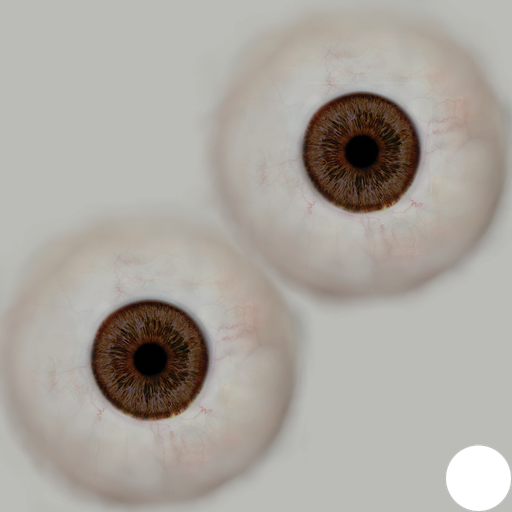
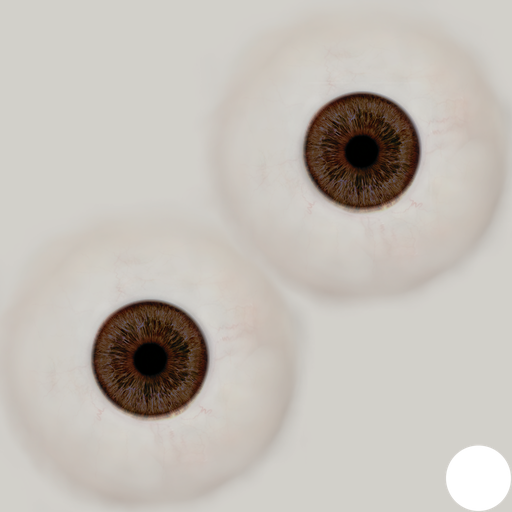
아바타 7차: 옷에 3D 몸 조명(가장자리 어둡게·명암), 허리 그늘은 몸 위에만, 손을 허벅지 옆으로·덜 굽히고 조금 작게, 입 다물기·입술 혈색, 따뜻한 흰자, 옅은 눈썹, 머리카락 윤곽 계단 줄이기, 깨끗한 흰 운동화, 서비스 워커 v43

diff --git a/avatar3d.js b/avatar3d.js
@@ -291,18 +291,27 @@ const Avatar3D = (() => {
       for (let s = 3; s >= 2; s--) rotSeg(`finger1-${s}.${sd}`, curl.thumb[s - 1], bend);
       rotSeg(`finger1-1.${sd}`, curl.thumb[0] * (sd === 'L' ? 1 : -1), () => d);
       rotSeg(`finger1-1.${sd}`, curl.thumbIn * (sd === 'L' ? 1 : -1), () => pn);
+      // 손 크기: 아래팔에 비해 커 보이던 손을 손목 기준으로 조금 줄인다
+      if (curl.scale && curl.scale !== 1) {
+        const W = data.w['hand' + sd];
+        for (let i = 0; i < W.length; i++) {
+          const w = W[i] / 255; if (!w) continue;
+          const f = 1 - (1 - curl.scale) * w;
+          for (let k = 0; k < 3; k++) P[i * 3 + k] = wr[k] + (P[i * 3 + k] - wr[k]) * f;
+        }
+      }
     }
     return P;
   }
   const FACE = {
-    'lowerlip-vol': -0.7, 'lowerlip-h': -0.3, 'mouth-angle': 0.3, 'mouth-w': -0.1,
+    'lowerlip-vol': -0.7, 'lowerlip-h': -0.3, 'lowerlip-mid': 0.8, 'upperlip-mid': -0.6, 'mouth-angle': 0.3, 'mouth-w': -0.1,
     'chin-prom': 0.25, 'chin-w': -0.45, 'head-fat': -0.5, 'head-oval': 0,
     'cheek-vol': -0.25, 'cheek-bones': 0, 'nose-w': -0.15, 'nose-point': -0.3, 'nose-flare': -0.3, 'nose-vol': -0.1, 'nose-hump': 0,
     'brow-y': -0.15, 'brow-angle': 0, 'neck-w': 0.3, 'eye-open': 0.15, 'eye-bag': -0.4, 'eye-scale': 0.05,
   };
   const LIGHT = { key: 2.6, fill: 0.3, rim: 2.2, rim2: 1.6, env: 0.35, exposure: 0.84 };
-  const POSE = { arm: 4.5, fore: 1.5, leg: 2.5, twist: -25, head: 0.96, hairThick: 0.8, hair: 'short02', cav: 0.6, browThick: 1.8, hairShells: 3, hairShellGap: 0.16, hairNormal: 0, hairBump: 2.0, pores: 0.35 };
-  const HAND_CURL = { palmSign: -1, seg: [10, 25, 12], more: 2, close: 3, thumb: [0, 10, 10], thumbIn: -60 };
+  const POSE = { arm: 7.5, fore: 0, leg: 2.5, twist: -15, head: 0.96, hairThick: 0.8, hair: 'short02', cav: 0.6, browThick: 1.55, hairShells: 3, hairShellGap: 0.16, hairNormal: 0, hairBump: 2.0, pores: 0.35 };
+  const HAND_CURL = { palmSign: -1, seg: [8, 18, 10], more: 1.5, close: 3, thumb: [0, 8, 8], thumbIn: -55, scale: 0.95 };
 
   // 원래 정점 기준 법선(uv 이음매에서도 끊기지 않게)
   function normals(P) {
@@ -396,7 +405,7 @@ const Avatar3D = (() => {
         for (let i = 0; i < n; i++) {
           const d = (S[i * 3] - P[i * 3]) * N[i * 3] + (S[i * 3 + 1] - P[i * 3 + 1]) * N[i * 3 + 1] + (S[i * 3 + 2] - P[i * 3 + 2]) * N[i * 3 + 2];
           // 큰 굴곡은 얼굴(눈두덩·콧방울·입꼬리)에만 진하게: 몸통에 쓰면 가슴·쇄골에 멍처럼 얼룩진다
-          const wgt = it === 3 ? 0.15 + 0.3 * (hw[i] / 255) : 0.03 + 0.47 * (hw[i] / 255);
+          const wgt = it === 3 ? 0.15 + 0.3 * (hw[i] / 255) : 0.03 + 0.34 * (hw[i] / 255);
           out[i] += Math.max(0, Math.min(1, d / sc)) * wgt;
         }
       }
@@ -597,11 +606,11 @@ const Avatar3D = (() => {
       let mat;
       if (p.kind === 'hair') {
         const ht = hairRGB.map((v, i) => Math.max(0.05, Math.min(2.5, v / Math.max(8, data.hairAvg[p.name][i]))));
-        mat = new THREE.MeshPhysicalMaterial({ map: data.tex[p.tex], ...(p.name === 'short02' && POSE.hairNormal ? { normalMap: data.tex['hair_n.jpg'], normalScale: new THREE.Vector2(POSE.hairNormal, POSE.hairNormal) } : {}), ...(POSE.hairBump ? { bumpMap: strandTex(), bumpScale: POSE.hairBump } : {}), color: new THREE.Color(ht[0], ht[1], ht[2]).convertSRGBToLinear(), roughness: 0.62, specularIntensity: 0.35, sheen: 0.35, sheenRoughness: 0.4, sheenColor: new THREE.Color(0.4, 0.32, 0.26), alphaTest: 0.55, side: THREE.DoubleSide });
+        mat = new THREE.MeshPhysicalMaterial({ map: data.tex[p.tex], ...(p.name === 'short02' && POSE.hairNormal ? { normalMap: data.tex['hair_n.jpg'], normalScale: new THREE.Vector2(POSE.hairNormal, POSE.hairNormal) } : {}), ...(POSE.hairBump ? { bumpMap: strandTex(), bumpScale: POSE.hairBump } : {}), color: new THREE.Color(ht[0], ht[1], ht[2]).convertSRGBToLinear(), roughness: 0.62, specularIntensity: 0.35, sheen: 0.35, sheenRoughness: 0.4, sheenColor: new THREE.Color(0.4, 0.32, 0.26), alphaTest: 0.55, alphaToCoverage: true, side: THREE.DoubleSide });
       } else if (p.kind === 'brow' || p.kind === 'lash') {
-        mat = new THREE.MeshStandardMaterial({ map: data.tex[p.tex], color: p.kind === 'brow' ? new THREE.Color(Math.min(1, hairRGB[0] / 255 * 1.5), Math.min(1, hairRGB[1] / 255 * 1.5), Math.min(1, hairRGB[2] / 255 * 1.5)).convertSRGBToLinear() : new THREE.Color(0.06, 0.05, 0.045), roughness: 0.8, ...(p.kind === 'lash' && POSE.lashOpaque ? { alphaTest: 0.4 } : { transparent: true, opacity: 1, alphaTest: 0.05, depthWrite: false }), side: THREE.DoubleSide });
+        mat = new THREE.MeshStandardMaterial({ map: data.tex[p.tex], color: p.kind === 'brow' ? new THREE.Color(Math.min(1, hairRGB[0] / 255 * 1.5), Math.min(1, hairRGB[1] / 255 * 1.5), Math.min(1, hairRGB[2] / 255 * 1.5)).convertSRGBToLinear() : new THREE.Color(0.06, 0.05, 0.045), roughness: 0.8, ...(p.kind === 'lash' && POSE.lashOpaque ? { alphaTest: 0.4 } : { transparent: true, opacity: p.kind === 'brow' ? 0.78 : 1, alphaTest: 0.05, depthWrite: false }), side: THREE.DoubleSide });
       } else if (p.kind === 'eye') {
-        mat = new THREE.MeshPhysicalMaterial({ map: data.tex[p.tex], roughness: 0.2, clearcoat: 1, clearcoatRoughness: 0.03, envMapIntensity: 3, transparent: true, alphaTest: 0.02 }); // 소프트박스가 눈에 비친 반짝임
+        mat = new THREE.MeshPhysicalMaterial({ map: data.tex[p.tex], roughness: 0.2, clearcoat: 1, clearcoatRoughness: 0.03, envMapIntensity: 1.8, transparent: true, alphaTest: 0.02 }); // 소프트박스가 눈에 비친 반짝임
       } else {
         mat = new THREE.MeshStandardMaterial({ map: data.tex[p.tex], roughness: 0.7 });
       }
@@ -615,7 +624,7 @@ const Avatar3D = (() => {
       if (p.kind !== 'shoes') headParts.push(mesh);
       if (p.kind === 'hair') {
         // 머리카락 끝(반투명한 가닥)은 섞어 그려 앞머리 끝이 톱니처럼 잘리지 않고 가늘게 흩어지게
-        const soft = new THREE.Mesh(g, Object.assign(mat.clone(), { alphaTest: 0.04, transparent: true, depthWrite: false }));
+        const soft = new THREE.Mesh(g, Object.assign(mat.clone(), { alphaTest: 0.04, transparent: true, depthWrite: false, alphaToCoverage: false }));
         soft.userData.kind = 'hair'; soft.renderOrder = 3; soft.receiveShadow = true;
         scene.add(soft); headParts.push(soft);
         // 털 껍질: 머리카락 겉에 가닥 무늬로 듬성듬성 뚫린 얇은 막을 몇 겹 씌워 윤곽이 매끈한 덩어리(헬멧)가 아니라 보송하게
@@ -627,7 +636,7 @@ const Avatar3D = (() => {
             const gk = g.clone(), pk = gk.attributes.position.array;
             for (let i = 0; i < pk.length; i++) pk[i] = pos[i] + nor[i] * off;
             gk.attributes.position.needsUpdate = true;
-            const mk = Object.assign(mat.clone(), { alphaMap: strandTex(), alphaTest: 0.3 + 0.12 * k, transparent: false });
+            const mk = Object.assign(mat.clone(), { alphaMap: strandTex(), alphaTest: 0.3 + 0.12 * k, transparent: false, alphaToCoverage: true });
             mk.color = mat.color.clone().multiplyScalar(1 + 0.08 * k); // 바깥 가닥이 빛을 조금 더 받는다
             const sh = new THREE.Mesh(gk, mk);
             sh.userData.kind = 'hair'; sh.renderOrder = 1; sh.receiveShadow = true;

diff --git a/garment.js b/garment.js
@@ -2085,13 +2085,61 @@
       gg.closePath(); gg.fill();
       gg.restore();
       // 허리 밴드 바로 위 살에 지는 얇은 그늘(밴드가 살을 살짝 누른다)
-      gg.save();
-      gg.globalCompositeOperation = 'destination-over';
-      gg.filter = `blur(${0.7 * s}px)`;
-      gg.strokeStyle = 'rgba(40,25,20,0.22)';
-      gg.lineWidth = 1.4 * s;
-      gg.beginPath(); gg.moveTo(wl.l.x + 1.5 * s, wl.l.y - 0.3 * s); gg.quadraticCurveTo(c.x, c.y - 0.6 * s, wl.r.x - 1.5 * s, wl.r.y - 0.3 * s); gg.stroke();
-      gg.restore();
+      // 그늘은 몸 위에만(배경으로 번진 회색 얼룩이 생기지 않게)
+      const sh = buf('waistShadow', W, H), shg = sh.getContext('2d');
+      shg.setTransform(1, 0, 0, 1, 0, 0); shg.globalCompositeOperation = 'source-over'; shg.clearRect(0, 0, W, H);
+      shg.filter = `blur(${0.7 * s}px)`;
+      shg.strokeStyle = 'rgba(40,25,20,0.22)';
+      shg.lineWidth = 1.4 * s;
+      shg.beginPath(); shg.moveTo(wl.l.x + 1.5 * s, wl.l.y - 0.3 * s); shg.quadraticCurveTo(c.x, c.y - 0.6 * s, wl.r.x - 1.5 * s, wl.r.y - 0.3 * s); shg.stroke();
+      shg.filter = 'none'; shg.globalCompositeOperation = 'destination-in'; shg.drawImage(avatarBody, 0, 0, W, H);
+      shg.globalCompositeOperation = 'source-over';
+      gg.save(); gg.globalCompositeOperation = 'destination-over'; gg.drawImage(sh, 0, 0); gg.restore();
+    }
+  }
+
+  // 아바타 옷 조명: 붙여 넣은 사진처럼 평평하지 않게
+  // 1) 옷 실루엣 가장자리(몸통 옆·소매 바깥·겨드랑이)로 갈수록 어둡게(둥근 몸을 감싼 천)
+  // 2) 3D 몸을 같은 조명으로 그린 명암(depthShade, 128 = 그대로)을 소프트 라이트로: 밝은 쪽은 밝게, 그늘은 어둡게(검은 천에도 보이게)
+  function avatarGarmentLight(G, scene, geo) {
+    const W = G.width, H = G.height, s = geo.s || W / 200;
+    const gg = G.getContext('2d', { willReadFrequently: true });
+    const k = 4, sw = Math.max(1, Math.round(W / k)), sh = Math.max(1, Math.round(H / k));
+    const sm = buf('litSmall', sw, sh), sg = sm.getContext('2d', { willReadFrequently: true });
+    sg.setTransform(1, 0, 0, 1, 0, 0); sg.globalCompositeOperation = 'source-over'; sg.filter = 'none';
+    sg.clearRect(0, 0, sw, sh);
+    sg.drawImage(G, 0, 0, sw, sh);
+    const ad = sg.getImageData(0, 0, sw, sh).data;
+    const A = new Float32Array(sw * sh);
+    for (let i = 0; i < A.length; i++) A[i] = ad[i * 4 + 3] / 255;
+    // 상자 흐림 두 번(반지름 약 4cm): 가장자리에서 안쪽으로 갈수록 1에 가까워진다
+    const r = Math.max(2, Math.round((4 * s) / k));
+    const blur = (src) => {
+      const t = new Float32Array(src.length), o = new Float32Array(src.length);
+      for (let y = 0; y < sh; y++) { let acc = 0; for (let x = -r; x <= r; x++) acc += src[y * sw + Math.min(sw - 1, Math.max(0, x))]; for (let x = 0; x < sw; x++) { t[y * sw + x] = acc / (2 * r + 1); acc += src[y * sw + Math.min(sw - 1, x + r + 1)] - src[y * sw + Math.max(0, x - r)]; } }
+      for (let x = 0; x < sw; x++) { let acc = 0; for (let y = -r; y <= r; y++) acc += t[Math.min(sh - 1, Math.max(0, y)) * sw + x]; for (let y = 0; y < sh; y++) { o[y * sw + x] = acc / (2 * r + 1); acc += t[Math.min(sh - 1, y + r + 1) * sw + x] - t[Math.max(0, y - r) * sw + x]; } }
+      return o;
+    };
+    const B = blur(blur(A));
+    const img = sg.createImageData(sw, sh), d = img.data;
+    for (let i = 0; i < A.length; i++) {
+      const edge = Math.max(0, Math.min(1, (0.85 - B[i]) / 0.45)); // 0 = 안쪽, 1 = 가장자리
+      const v = Math.round(255 * (1 - 0.32 * edge));
+      d[i * 4] = v; d[i * 4 + 1] = v; d[i * 4 + 2] = Math.round(v * 0.98 + 5 * edge); d[i * 4 + 3] = 255;
+    }
+    sg.putImageData(img, 0, 0);
+    const L = buf('litLayer', W, H), lg = L.getContext('2d');
+    lg.setTransform(1, 0, 0, 1, 0, 0); lg.globalCompositeOperation = 'source-over';
+    lg.clearRect(0, 0, W, H);
+    lg.imageSmoothingEnabled = true; lg.imageSmoothingQuality = 'high';
+    lg.drawImage(sm, 0, 0, W, H);
+    lg.globalCompositeOperation = 'destination-in'; lg.drawImage(G, 0, 0);
+    gg.save(); gg.globalCompositeOperation = 'multiply'; gg.drawImage(L, 0, 0); gg.restore();
+    if (scene?.depthShade) {
+      lg.globalCompositeOperation = 'source-over'; lg.clearRect(0, 0, W, H);
+      lg.drawImage(scene.depthShade, 0, 0, W, H);
+      lg.globalCompositeOperation = 'destination-in'; lg.drawImage(G, 0, 0);
+      gg.save(); gg.globalCompositeOperation = 'soft-light'; gg.globalAlpha = 0.9; gg.drawImage(L, 0, 0); gg.restore();
     }
   }
 
@@ -2128,7 +2176,7 @@
     gg.setTransform(1, 0, 0, 1, 0, 0);
     gg.clearRect(0, 0, G.width, G.height);
     const res = drawFn(gg, opts);
-    if (res.ok && avatarBody) avatarGarmentShape(G, res.geo);
+    if (res.ok && avatarBody) { avatarGarmentShape(G, res.geo); avatarGarmentLight(G, opts.scene, res.geo); }
     if (res.ok) composeScene(ctx, G, opts.scene, res.geo);
     return res;
   }

diff --git a/sw.js b/sw.js
@@ -1,6 +1,6 @@
 // 앱 파일을 캐시해 오프라인에서도 열리게 한다.
 // 파일을 수정했으면 CACHE 버전을 올려야 사용자 기기에 새 버전이 반영된다.
-const CACHE = 'fitcheck-v42';
+const CACHE = 'fitcheck-v43';
 const ASSETS = [
   './',
   'index.html',

diff --git a/tools/build_human.py b/tools/build_human.py
@@ -64,6 +64,8 @@ FACE = {
     'lowerlip-h': ('mouth-lowerlip-height-incr', 'mouth-lowerlip-height-decr'),
     'mouth-angle': ('mouth-angles-up', 'mouth-angles-down'),
     'mouth-w': ('mouth-scale-horiz-incr', 'mouth-scale-horiz-decr'),
+    'lowerlip-mid': ('mouth-lowerlip-middle-up', 'mouth-lowerlip-middle-down'),
+    'upperlip-mid': ('mouth-upperlip-middle-up', 'mouth-upperlip-middle-down'),
     'chin-prom': ('chin-prominent-incr', 'chin-prominent-decr'),
     'chin-w': ('chin-width-incr', 'chin-width-decr'),
     'head-fat': ('head-fat-incr', 'head-fat-decr'),
@@ -362,6 +364,7 @@ def even_skin(src, dst):
     # 입술은 원래 색 비율이 커서 저주파도 살짝 붉게 남긴다
     lip = ell(1866, 1060, 40, 52)[..., None]
     out = out * (1 - lip * 0.5) + (a * target / np.median(low[1000:1120, 1700:1800].reshape(-1, 3), axis=0)) * lip * 0.5
+    out = out * (1 + lip * np.array([0.06, -0.03, -0.02], np.float32))  # 입술 혈색 조금 더
     Image.fromarray(np.clip(out, 0, 255).astype(np.uint8)).save(os.path.join(OUT, dst), quality=88, optimize=True)
 
 def dark_iris(src, dst, size):
@@ -377,7 +380,7 @@ def dark_iris(src, dst, size):
         iris[..., 0] = np.maximum(iris[..., 0], np.clip((60 - d) / 4, 0, 1))
     mean = (rgb * iris).reshape(-1, 3).sum(0) / iris.sum()
     dark = rgb * (np.array([62, 38, 24], np.float32) / mean)  # 결은 남기고 짙은 갈색으로
-    sclera = np.minimum(255, rgb * 1.06 + 6)  # 흰자는 조금 더 맑게
+    sclera = np.minimum(255, rgb * 0.55 + np.array([233, 228, 222], np.float32) * 0.5)  # 흰자: 푸른 회색 대신 따뜻한 미색
     a[..., :3] = dark * iris + sclera * (1 - iris)
     Image.fromarray(np.clip(a, 0, 255).astype(np.uint8)).save(os.path.join(OUT, dst), optimize=True)
 
@@ -424,9 +427,9 @@ def clean_shoes(src, dst, size):
     im = Image.open(P(src)).convert('RGB').resize((size, size), Image.LANCZOS)
     a = np.asarray(im).astype(np.float32)
     r, g, b = a[..., 0], a[..., 1], a[..., 2]
-    green = np.clip((g - np.maximum(r, b) - 15) / 30, 0, 1)[..., None]
-    lum = (r * 0.3 + g * 0.55 + b * 0.15)[..., None]
-    a = a * (1 - green) + np.repeat(lum * 0.8, 3, -1) * green
+    # 색은 모두 빼고(초록 포인트 없음), 어두운 판·밑창·때를 밝은 회색으로 올려 깨끗한 흰 운동화로
+    lum = (r * 0.3 + g * 0.45 + b * 0.25)[..., None]
+    a = np.repeat(np.clip(118 + lum * 0.56, 0, 255), 3, -1) * np.array([1.0, 0.995, 0.985])
     f = size / 512
     y0, x0 = int(430 * f), int(388 * f)
     sock = a[y0:, x0:]
